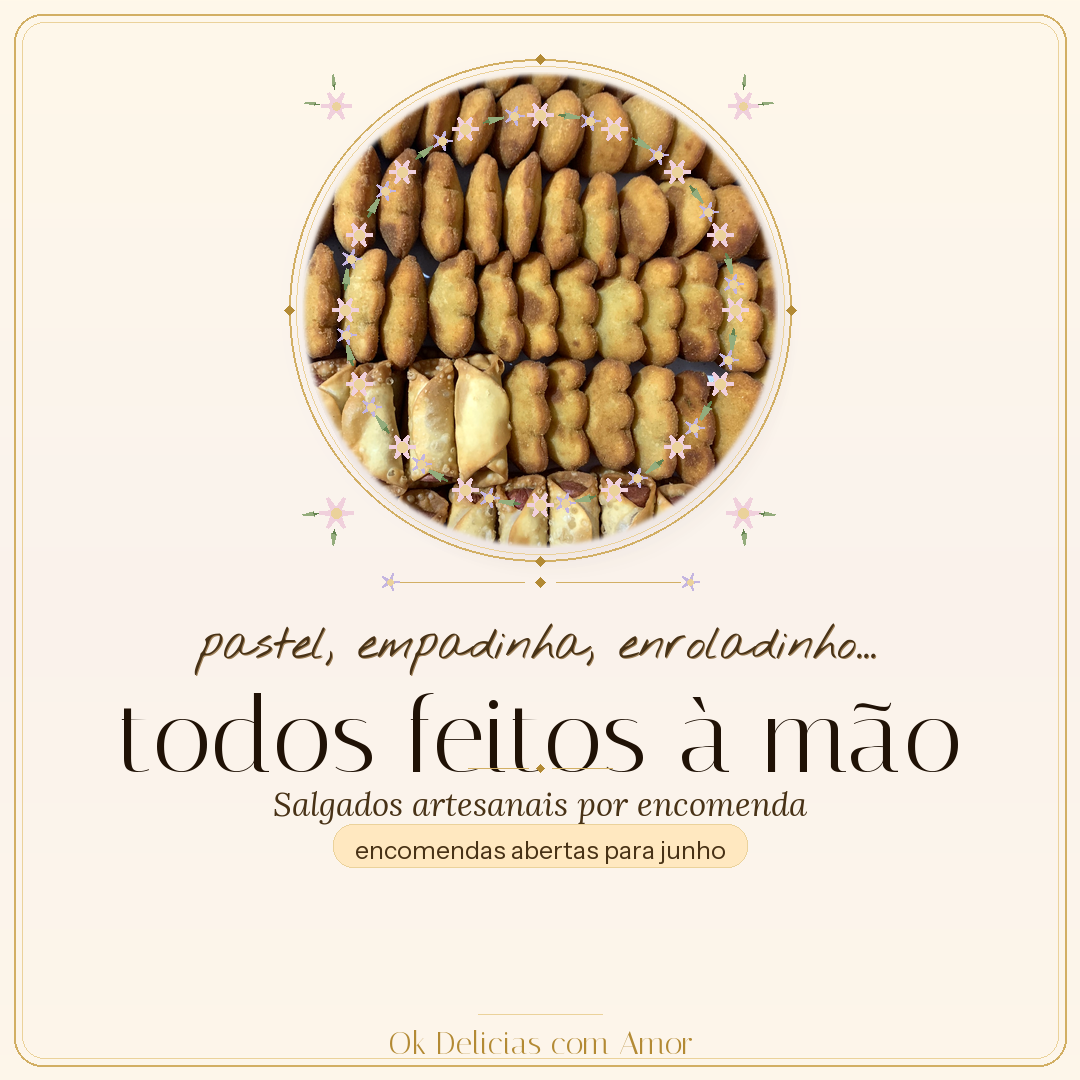
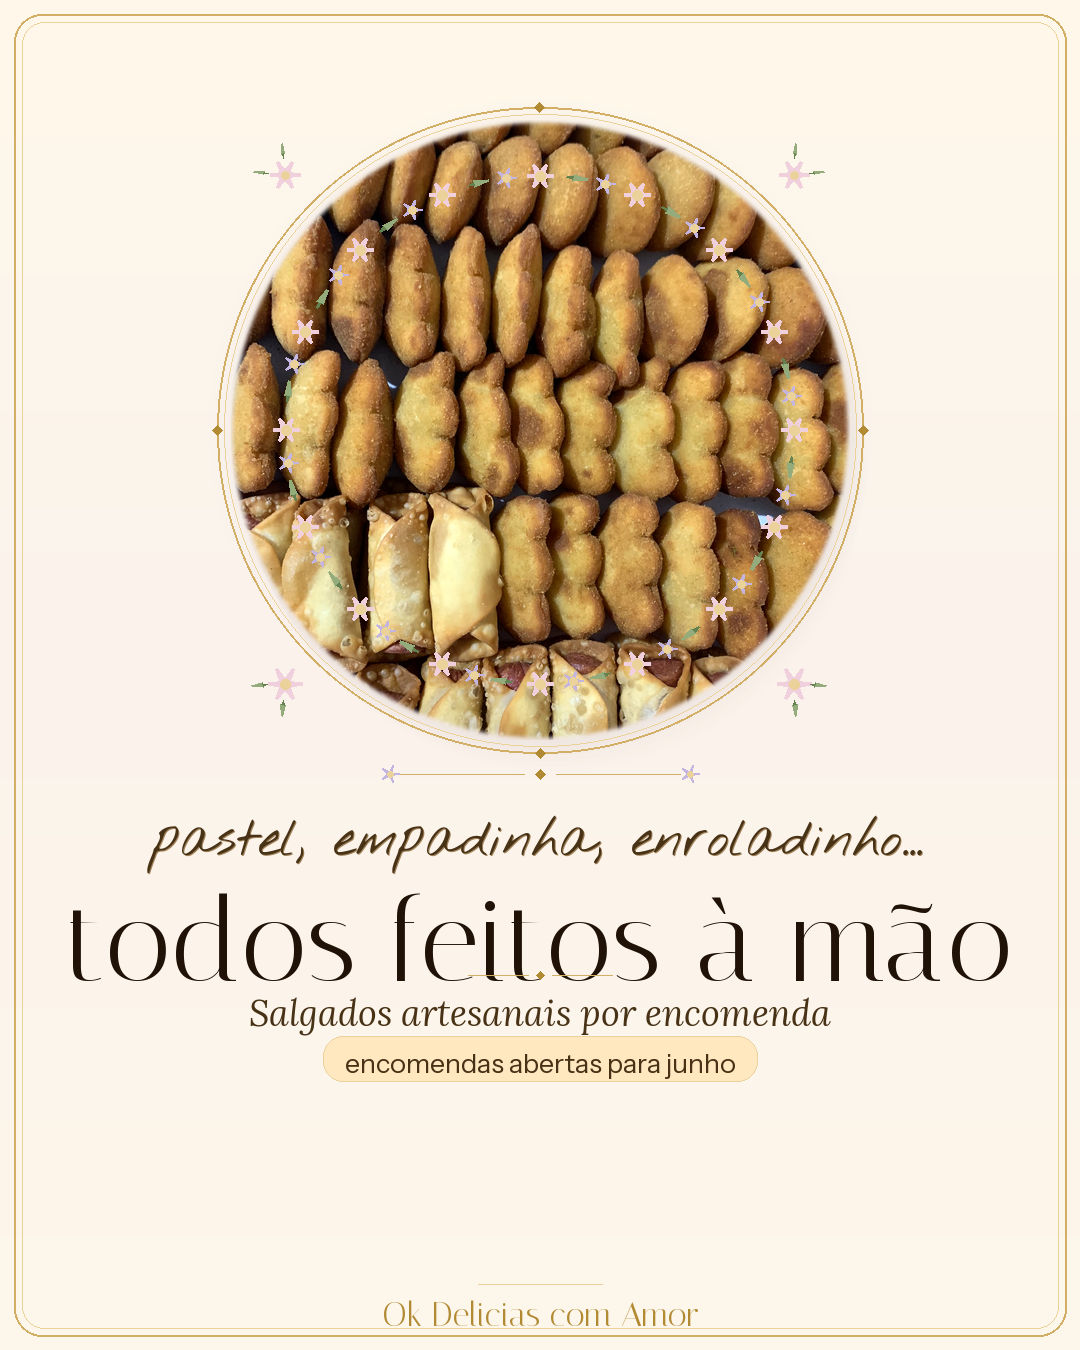
Converte posts para formato 1080x1350 (retrato 4:5)
Orientacao da Estefany: retrato fica melhor no feed do Instagram.
post_maio17: crop 4:5 da foto full-bleed
post_maio18: foto maior (r=310), fontes maiores, proporcoes ajustadas

diff --git a/post_maio17.py b/post_maio17.py
@@ -122,21 +122,25 @@ def draw_corner_ornament(draw, cx, cy, flip_x=False, flip_y=False, scale=1.0):
 # MAIN
 # -------------------------------------------------------------------
 def build_post():
-    W, H = 1080, 1080
+    W, H = 1080, 1350
 
-    # === FOTO FULL-BLEED ===
+    # === FOTO FULL-BLEED (crop 4:5 para formato retrato) ===
     foto_raw = Image.open(FOTO_PATH).convert("RGB")
     foto_raw = ImageEnhance.Brightness(foto_raw).enhance(1.10)
     foto_raw = ImageEnhance.Color(foto_raw).enhance(1.20)
     foto_raw = ImageEnhance.Contrast(foto_raw).enhance(1.05)
 
     fw, fh = foto_raw.size
-    # Crop para quadrado, centralizado
-    side = min(fw, fh)
-    l = (fw - side) // 2
-    t = (fh - side) // 2
-    foto_sq = foto_raw.crop((l, t, l + side, t + side))
-    img = foto_sq.resize((W, H), Image.LANCZOS)
+    target_ratio = W / H  # 0.8 (4:5)
+    if fw / fh > target_ratio:
+        new_fw = int(fh * target_ratio)
+        l = (fw - new_fw) // 2
+        foto_crop = foto_raw.crop((l, 0, l + new_fw, fh))
+    else:
+        new_fh = int(fw / target_ratio)
+        t = (fh - new_fh) // 2
+        foto_crop = foto_raw.crop((0, t, fw, t + new_fh))
+    img = foto_crop.resize((W, H), Image.LANCZOS)
 
     # === GRADIENT OVERLAY (terco inferior) ===
     # Creme emergindo do fundo para legibilidade do texto

diff --git a/post_maio18.py b/post_maio18.py
@@ -59,7 +59,7 @@ def draw_leaf(draw, cx, cy, angle_deg, length=14, width=6):
     draw_petal(draw, cx, cy, angle_deg+180, length*.4,   width*.5,   VERDE_ESC)
 
 def build_post():
-    W, H = 1080, 1080
+    W, H = 1080, 1350
 
     # === FUNDO: creme no topo -> lavanda suave ===
     img = Image.new("RGB", (W, H), CREME)
@@ -80,8 +80,8 @@ def build_post():
     draw = ImageDraw.Draw(img)
 
     # === FOTO CIRCULAR no terco superior ===
-    cx, cy_foto = W // 2, 310
-    foto_r = 238
+    cx, cy_foto = W // 2, 430
+    foto_r = 310
 
     foto_raw = Image.open(FOTO_PATH).convert("RGB")
     foto_raw = ImageEnhance.Brightness(foto_raw).enhance(1.10)
@@ -193,11 +193,11 @@ def build_post():
                 plen=9, pw=4, col_out=LAVANDA_M, col_mid=OURO_PAL, cr=3)
 
     # === TIPOGRAFIA ===
-    fnt_script = load_font("NothingYouCouldDo-Regular.ttf", 46)
-    fnt_title  = load_font("Italiana-Regular.ttf", 104)
-    fnt_sub    = load_font("Lora-Italic.ttf", 33)
-    fnt_detail = load_font("InstrumentSans-Regular.ttf", 25)
-    fnt_brand  = load_font("Italiana-Regular.ttf", 32)
+    fnt_script = load_font("NothingYouCouldDo-Regular.ttf", 52)
+    fnt_title  = load_font("Italiana-Regular.ttf", 116)
+    fnt_sub    = load_font("Lora-Italic.ttf", 36)
+    fnt_detail = load_font("InstrumentSans-Regular.ttf", 27)
+    fnt_brand  = load_font("Italiana-Regular.ttf", 34)
 
     base_y = div1_y + 32
 